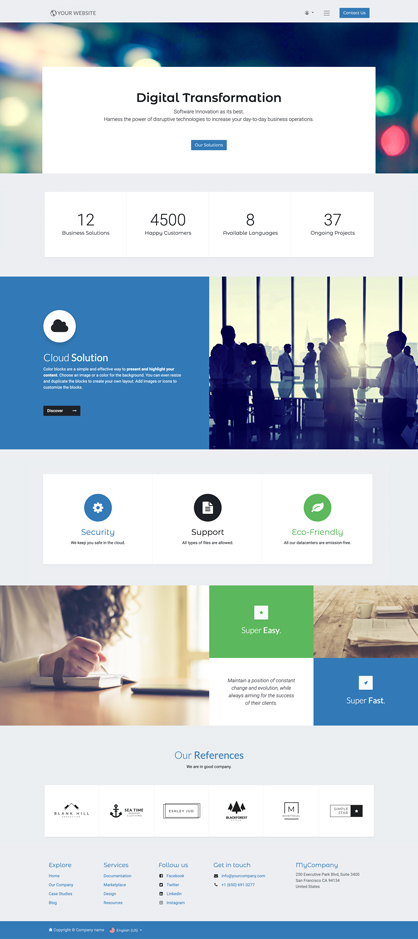
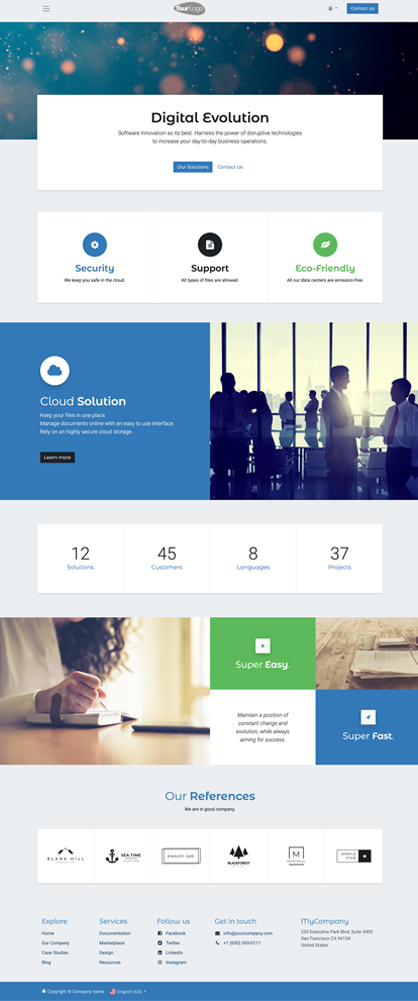
[IMP] theme_zap: improve snippet customizations and theme presets
task-2545207

diff --git a/theme_zap/static/src/scss/primary_variables.scss b/theme_zap/static/src/scss/primary_variables.scss
@@ -4,7 +4,7 @@
 
 $o-website-values-palettes: (
     (
-        'color-palettes-name': 'zap-1',
+        'color-palettes-name':              'zap-1',
         // Header
         'header-template':                  'hamburger',
         'logo-height':                      2.75rem,
@@ -12,7 +12,7 @@ $o-website-values-palettes: (
         'header-links-style':               'fill',
 
         'header-font-size':                 (14 / 16) * 1rem,
-        'font-size-base':                   (14 / 16) * 1rem,
+        'font-size-base':                   (15 / 16) * 1rem,
         'hambuger-type':                    'off-canvas',
         'hamburger-position':               'right',
 

diff --git a/theme_zap/static/src/js/tour.js b/theme_zap/static/src/js/tour.js
@@ -10,16 +10,16 @@ const snippets = [
         name: 'Banner',
     },
     {
-        id: 's_numbers',
-        name: 'Numbers',
+        id: 's_features',
+        name: 'Features',
     },
     {
         id: 's_color_blocks_2',
         name: 'Big Boxes',
     },
     {
-        id: 's_features',
-        name: 'Features',
+        id: 's_numbers',
+        name: 'Numbers',
     },
     {
         id: 's_masonry_block',

diff --git a/theme_zap/__manifest__.py b/theme_zap/__manifest__.py
@@ -12,11 +12,14 @@
         'views/images_library.xml',
 
         'views/snippets/s_banner.xml',
+        'views/snippets/s_call_to_action.xml',
         'views/snippets/s_color_blocks_2.xml',
         'views/snippets/s_features.xml',
+        'views/snippets/s_masonry_block.xml',
+        'views/snippets/s_media_list.xml',
         'views/snippets/s_numbers.xml',
         'views/snippets/s_references.xml',
-        'views/snippets/s_masonry_block.xml',
+        'views/snippets/s_three_columns.xml',
     ],
     'images': [
         'static/description/zap_cover.gif',
